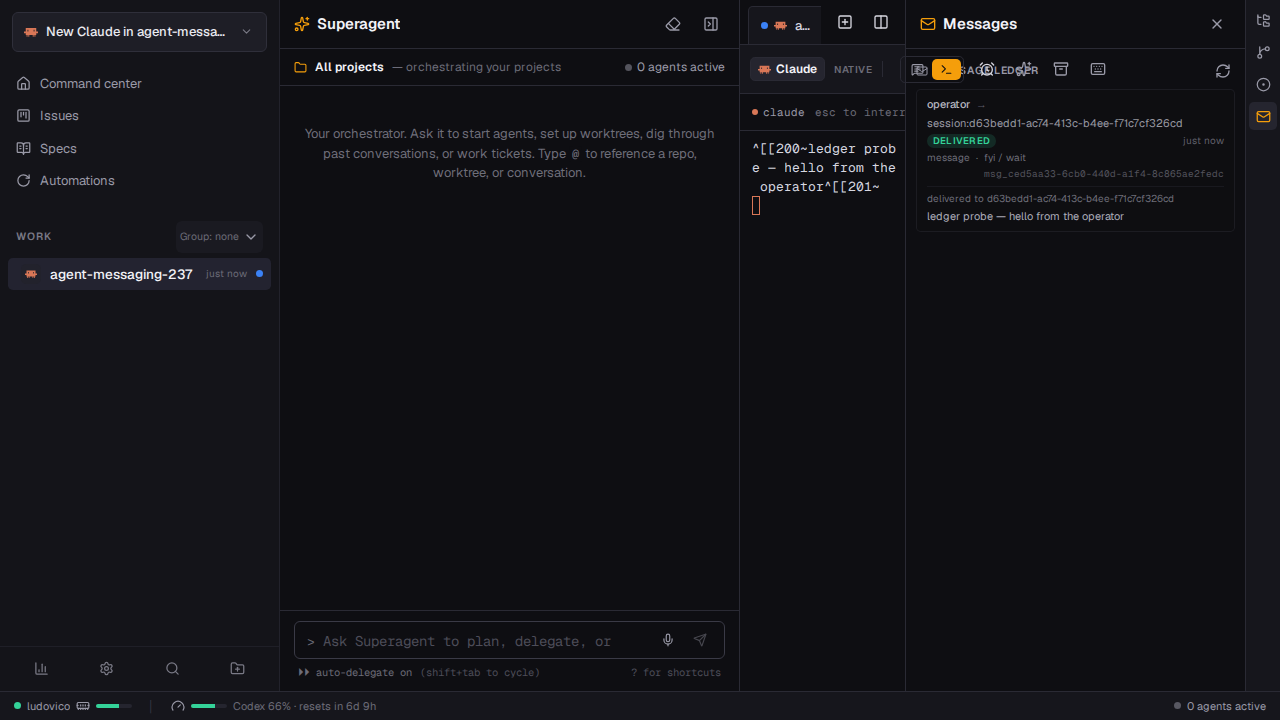
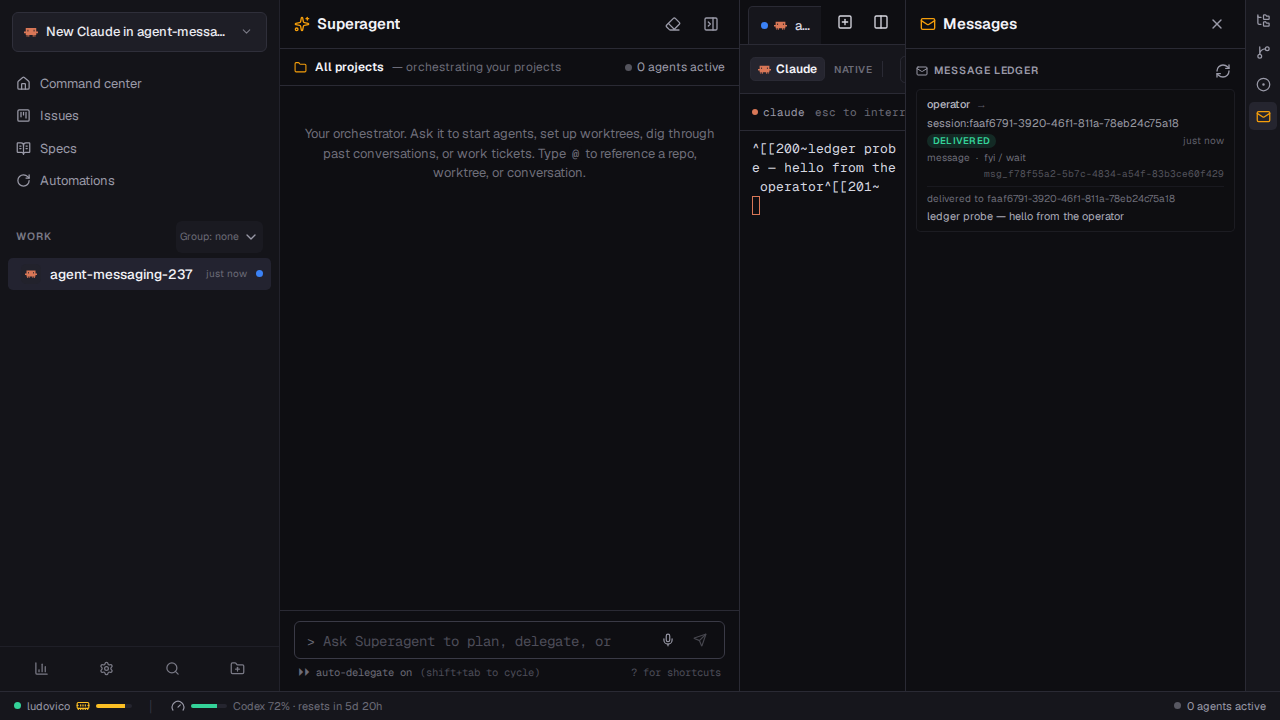
fix(web): clip the agent-pane header so a narrow pane can't spill its toolbar over the right dock; spawn budget 3→10/day (#237) [spec:SP-34d7]

diff --git a/apps/web/src/features/messages/MessageLedgerView.tsx b/apps/web/src/features/messages/MessageLedgerView.tsx
@@ -138,12 +138,12 @@ export function MessageLedgerView({
       data-testid="message-ledger"
     >
       <div className="flex items-center gap-1.5 pb-1.5 text-[10.5px] font-semibold tracking-[0.09em] uppercase text-muted-foreground">
-        <MailIcon size={12} aria-hidden="true" />
-        Message ledger
+        <MailIcon size={12} className="flex-none" aria-hidden="true" />
+        <span className="min-w-0 flex-1 truncate">Message ledger</span>
         <Button
           variant="ghost"
           size="icon-sm"
-          className="ml-auto size-6 text-muted-foreground"
+          className="size-6 flex-none text-muted-foreground"
           title="Refresh ledger"
           onClick={refresh}
         >

diff --git a/apps/web/src/features/terminal/AgentPanel.tsx b/apps/web/src/features/terminal/AgentPanel.tsx
@@ -494,7 +494,10 @@ export function AgentPanel({
 
   return (
     <div className="flex min-w-0 flex-1 flex-col">
-      <div className="flex h-[49px] flex-none items-center gap-[9px] border-b border-border bg-card px-2.5">
+      {/* overflow-hidden: the header's flex-none controls must CLIP at the pane
+          edge. Without it a pane squeezed narrow (e.g. by an open right dock)
+          spills its toolbar over the neighbouring panel. */}
+      <div className="flex h-[49px] flex-none items-center gap-[9px] overflow-hidden border-b border-border bg-card px-2.5">
         {/* Agent-kind chip (Claude Code / Codex / …) + surface label + session name,
             mirroring the native pane header in the design. */}
         {session && (

diff --git a/apps/server/src/modules/messages/service.ts b/apps/server/src/modules/messages/service.ts
@@ -44,7 +44,7 @@ export const HOP_LIMIT = 5
 /** One wake per (sender, target-issue) per this window (brake 1). */
 export const WAKE_COOLDOWN_MS = 10 * 60_000
 /** Message-triggered spawns per issue per UTC day (brake 2). */
-export const SPAWN_BUDGET_PER_DAY = 3
+export const SPAWN_BUDGET_PER_DAY = 10
 /** Bodies past this render as a pointer, not inline (issue-addressed only —
  *  they are readable via `podium issue mail inbox`). */
 export const INLINE_BODY_MAX = 6_000